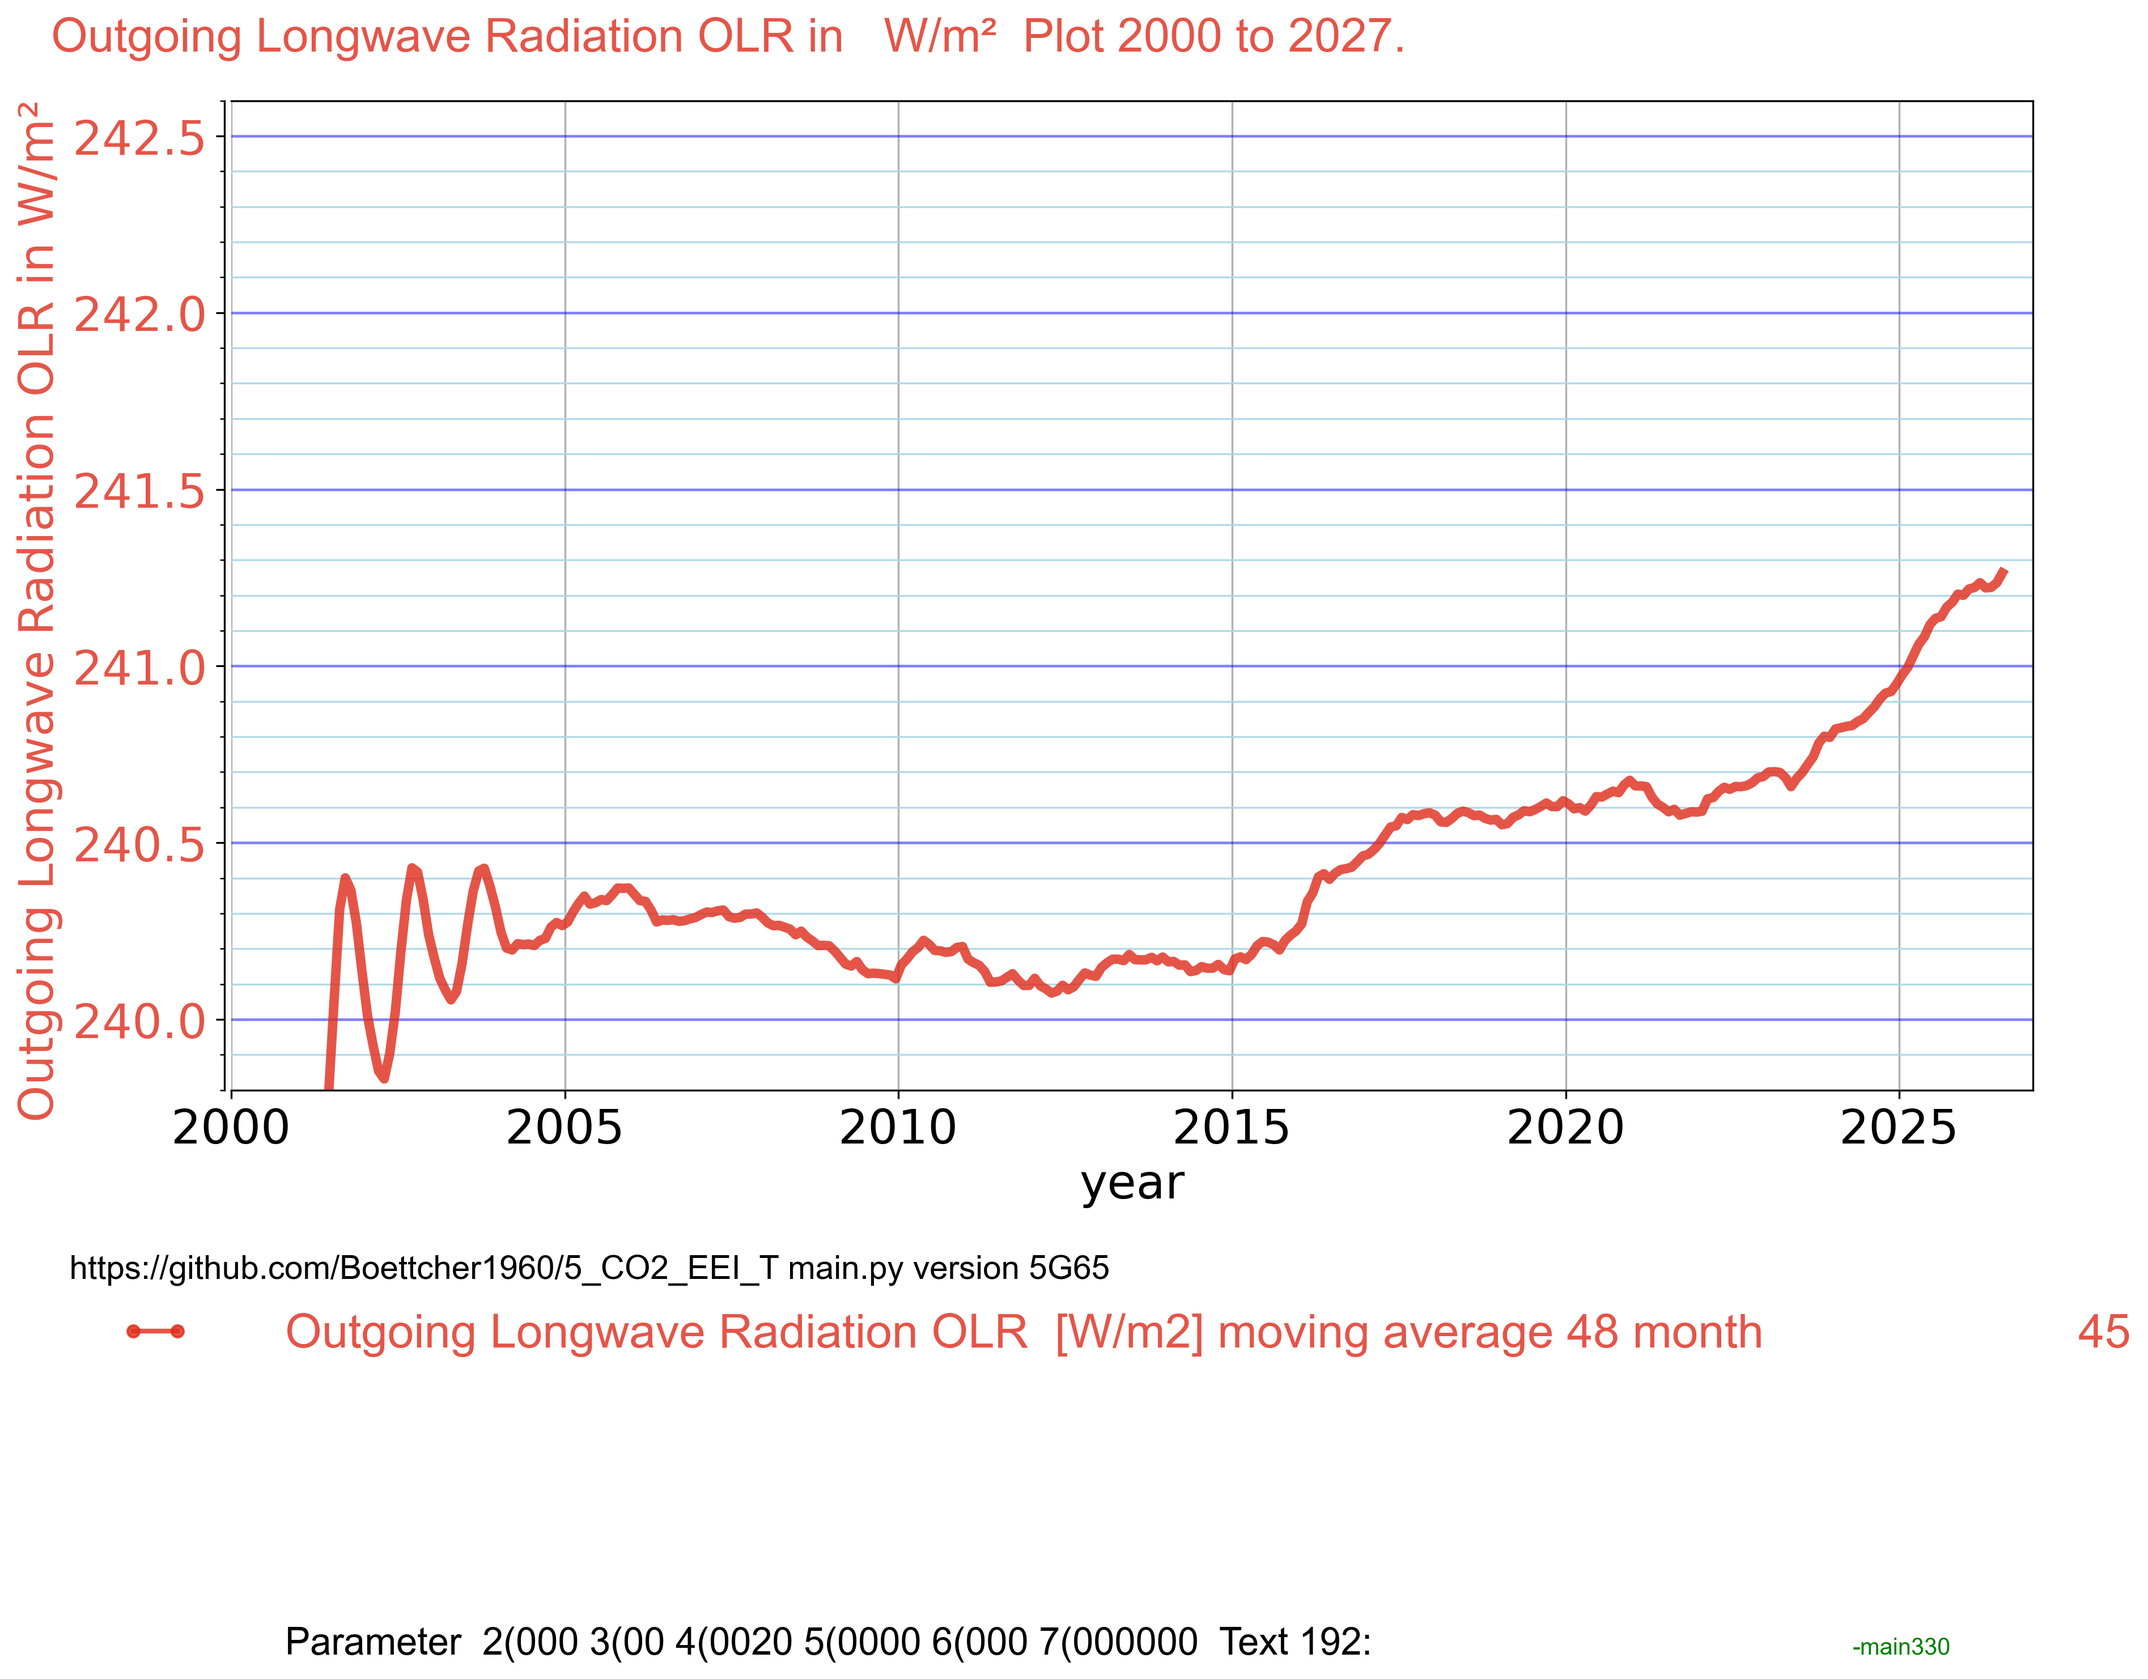
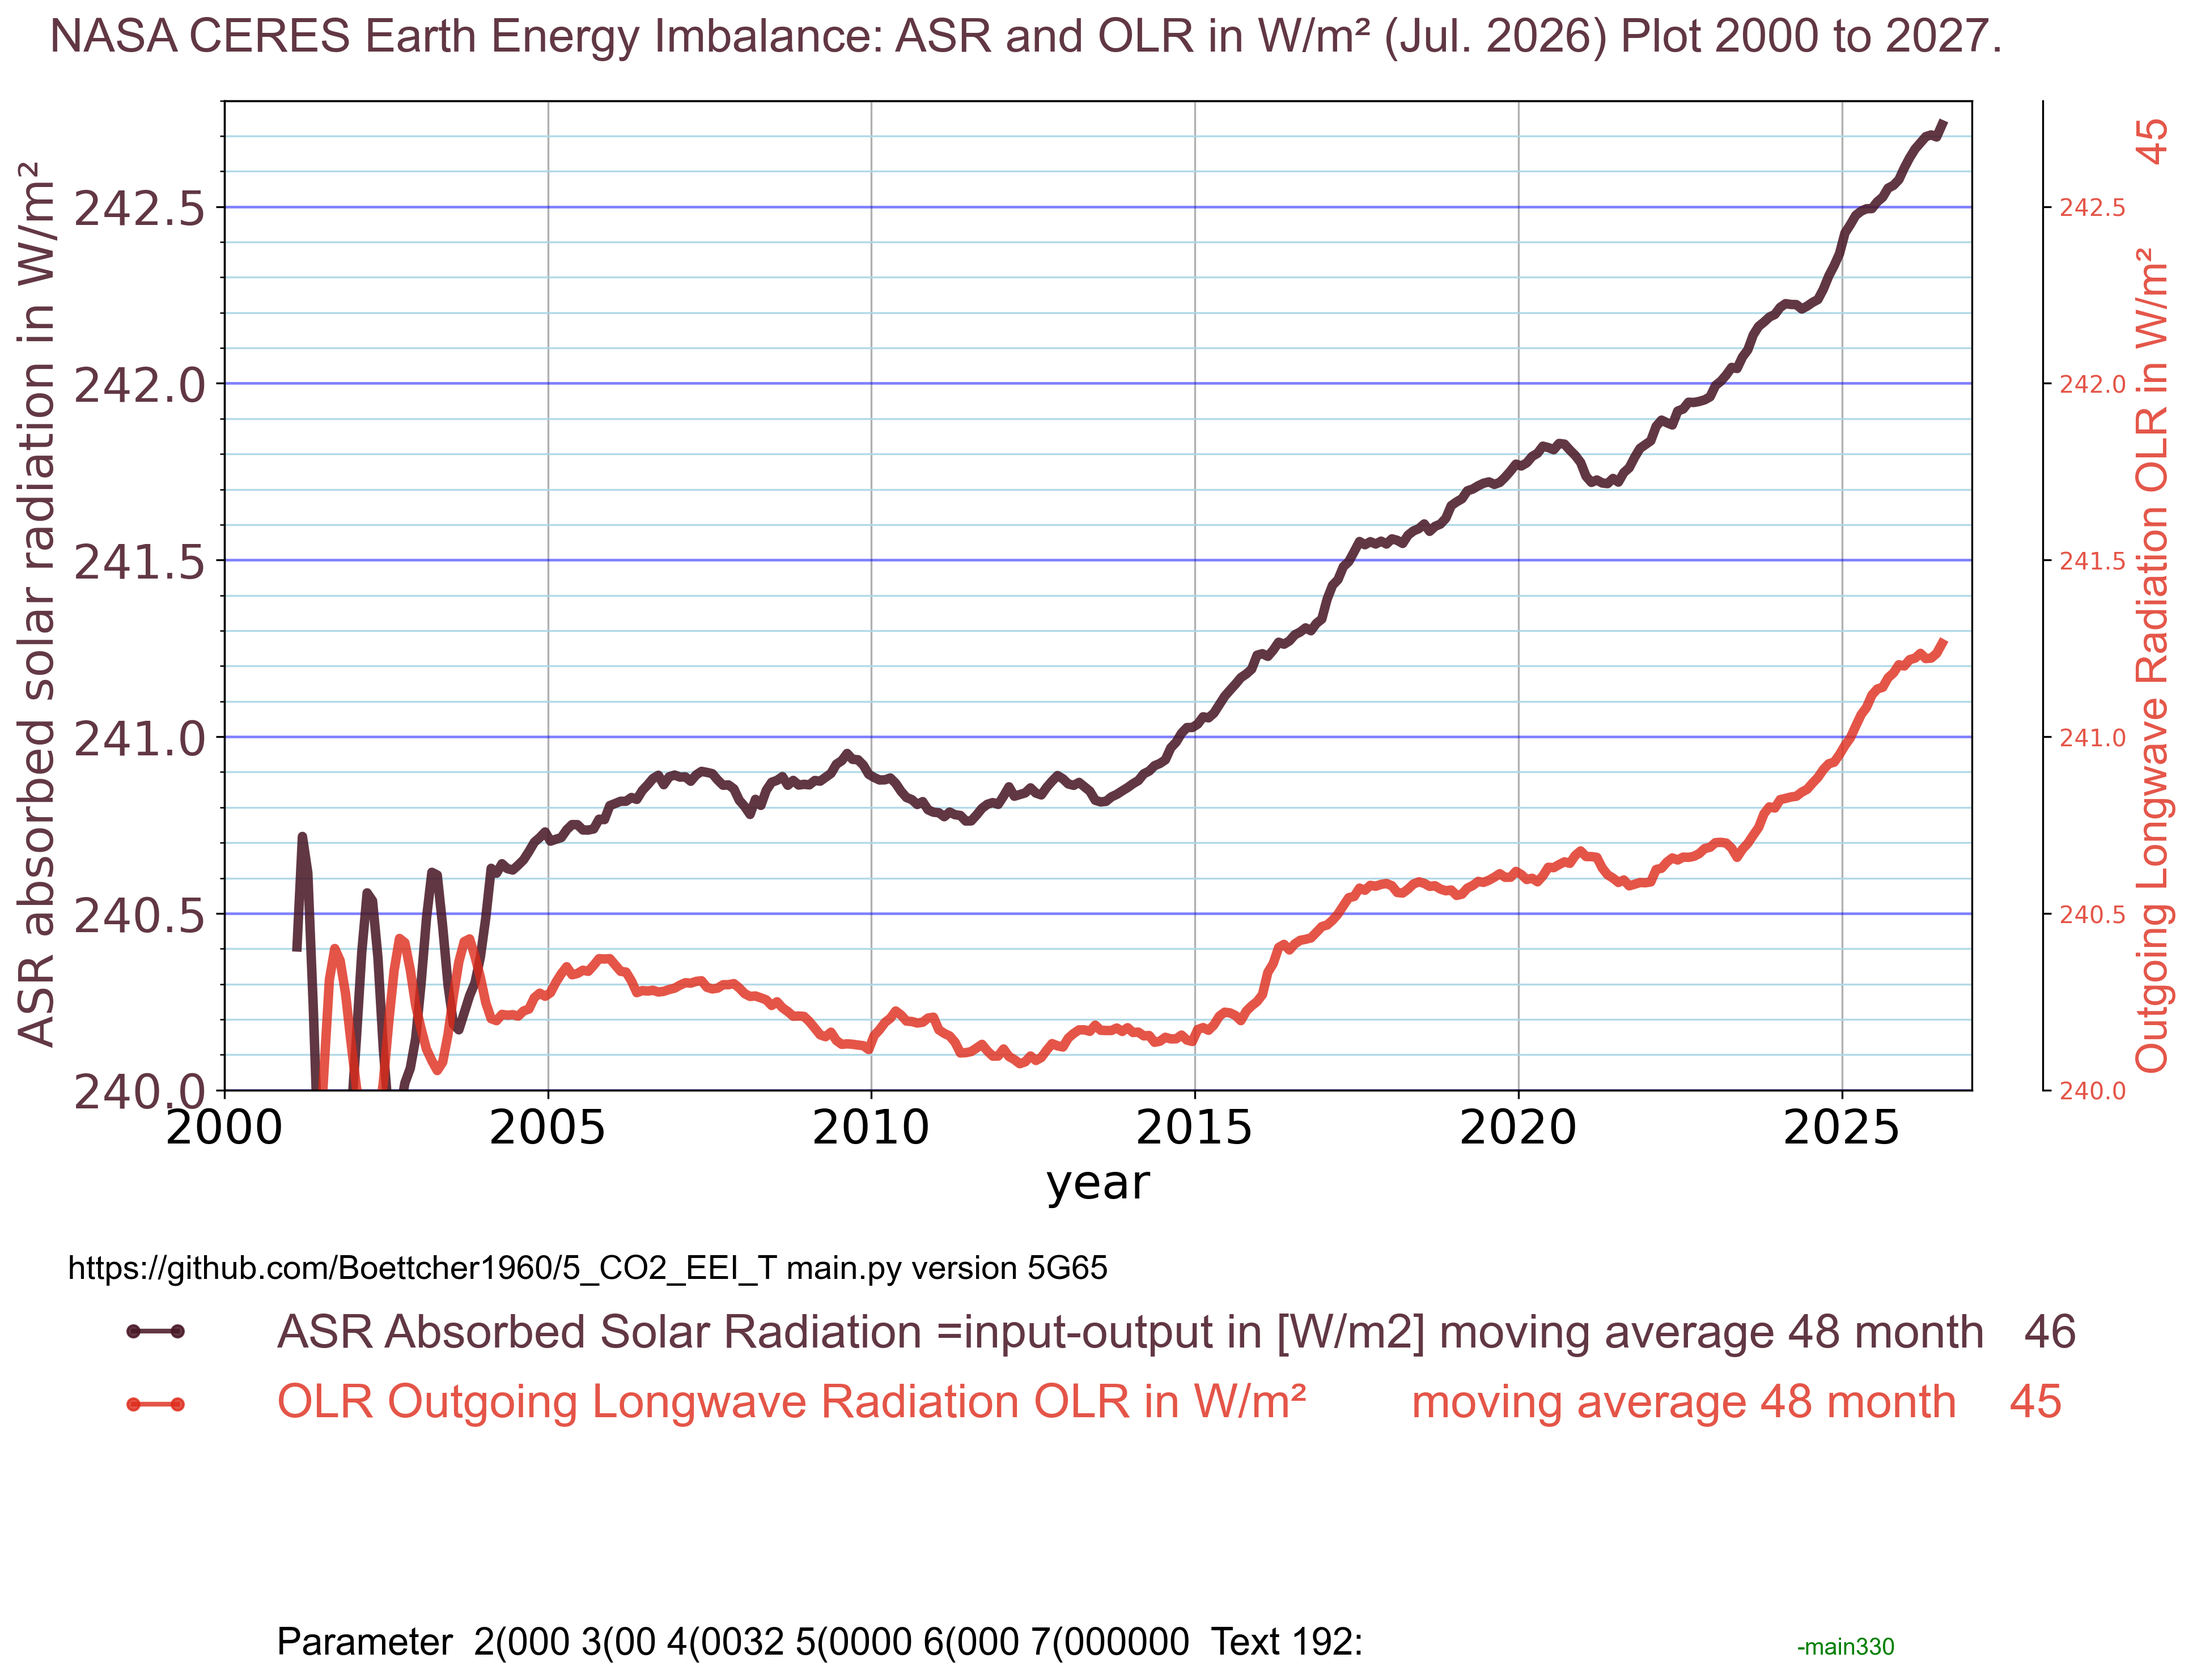
g64

diff --git a/models.py b/models.py
@@ -198,7 +198,7 @@ T_71values = T_model71(years71)
 # 4 run with play_66_OLR = 48
 # 5 copy dokumente/5_CO2_EEI_T/work/_66c_OLR.csv to
 #        dokumente/5_CO2_EEI_T/read_csv/_45_OLR_48month_2026_07.csv
-# looks like https://bsky.app/profile/leonsimons.com/post/3mwy3xgypts2y
+#   looks like https://bsky.app/profile/leonsimons.com/post/3mwy3xgypts2y
 #
 #  plot45_OLR = 2 # 2, 3, 4 looks like simons 48 months. Outgoing Longwave Radiation OLR updated to 2026_07
 #
@@ -219,8 +219,8 @@ T_71values = T_model71(years71)
 #        dokumente/5_CO2_EEI_T/read_csv/_46_ASR_48month_2026_07.csv
 # looks like https://bsky.app/profile/leonsimons.com/post/3mwy3xgypts2y
 # line DataP423 df2['ASR'] = df2['sw_in'] - df2['sw_out']
-
-
+# 2026.10.15 plots plot46_ASR = 2
+# 2026.10.15 plots plot46_ASR = 3
 
 
 # text55 = "Green line: Earth Population in billion                                               55"

diff --git a/config.py b/config.py
@@ -33,8 +33,8 @@ plot34_CO2 = 0 # 0     plot34_CO2_emission mode 4
 plot42_EEI_48month = 0  # 2,3,4,5 print EEI 48 month running mean. Info in line 4 below the plot
 plot43_eei_12month = 0  # 2, 3, 4 , 2=left y axis 3,4 print EEI 12 month running mean. [W/m2]
 part44_ceres_eei = 0  # 47, 3, 48,   is local 
-plot45_OLR = 2 # 2, 3, 4 looks like simons 48 months. Outgoing Longwave Radiation OLR updated to 2026_07
-plot46_ASR = 0 # 2, 3 ASR Absorbed Solar Radiation from _CERES_ASR 48 months average [W/m2]
+plot45_OLR = 3 # 2, 3, 4 looks like simons 48 months. Outgoing Longwave Radiation OLR updated to 2026_07
+plot46_ASR = 2 # 2, 3 ASR Absorbed Solar Radiation from _CERES_ASR 48 months average [W/m2]
 plot47_albedo48 = 0  # 4  
 
 plot52_delta_CO2_red_bars = 0 # (3=print numbers)
